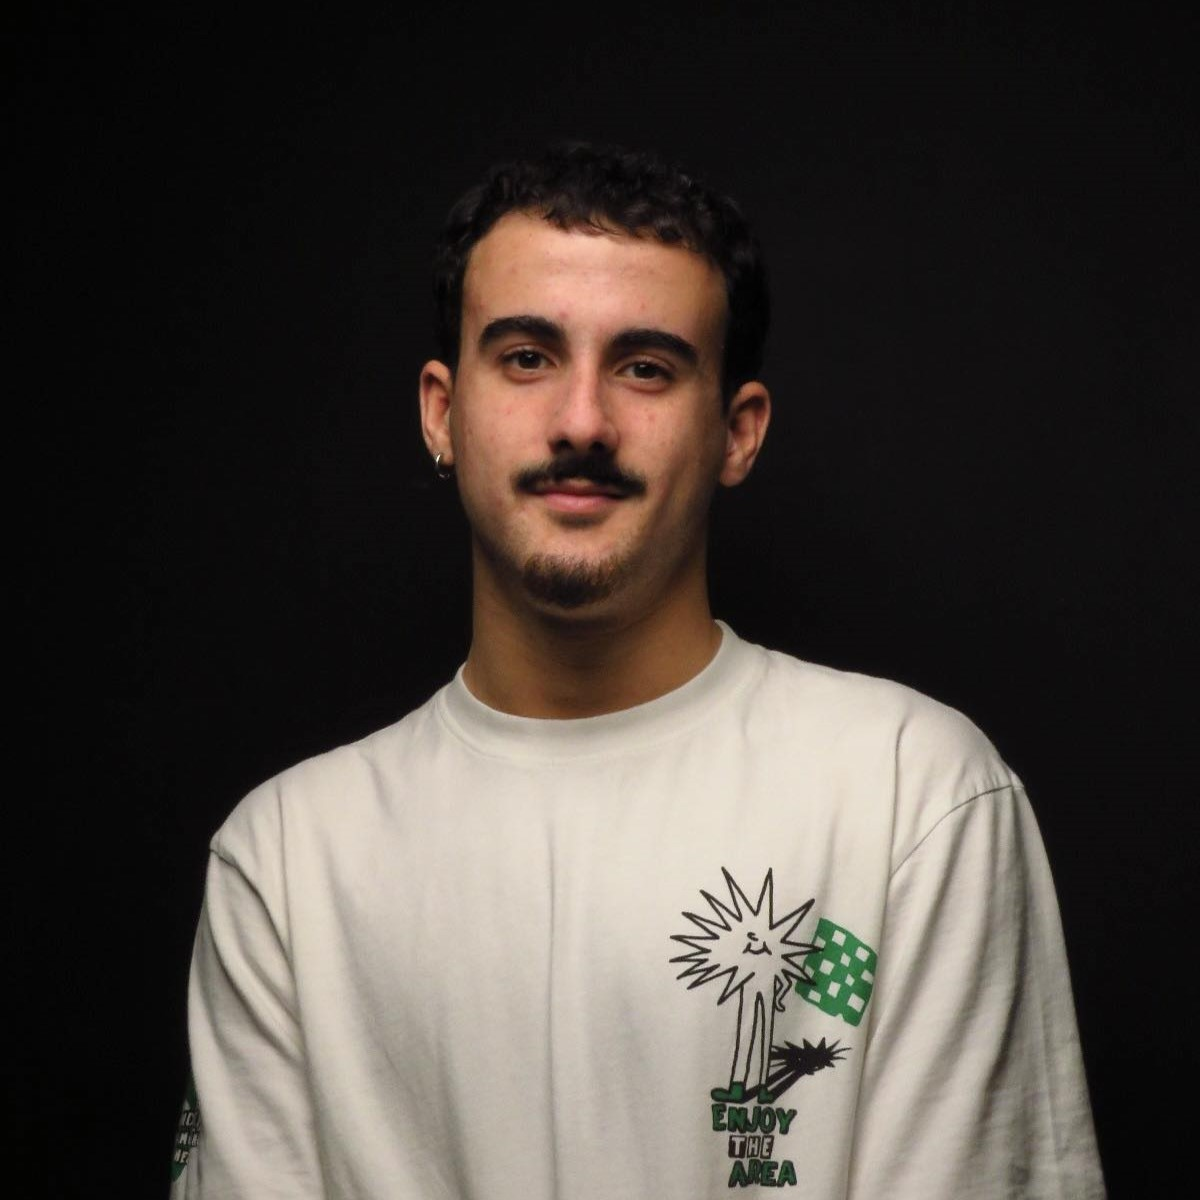
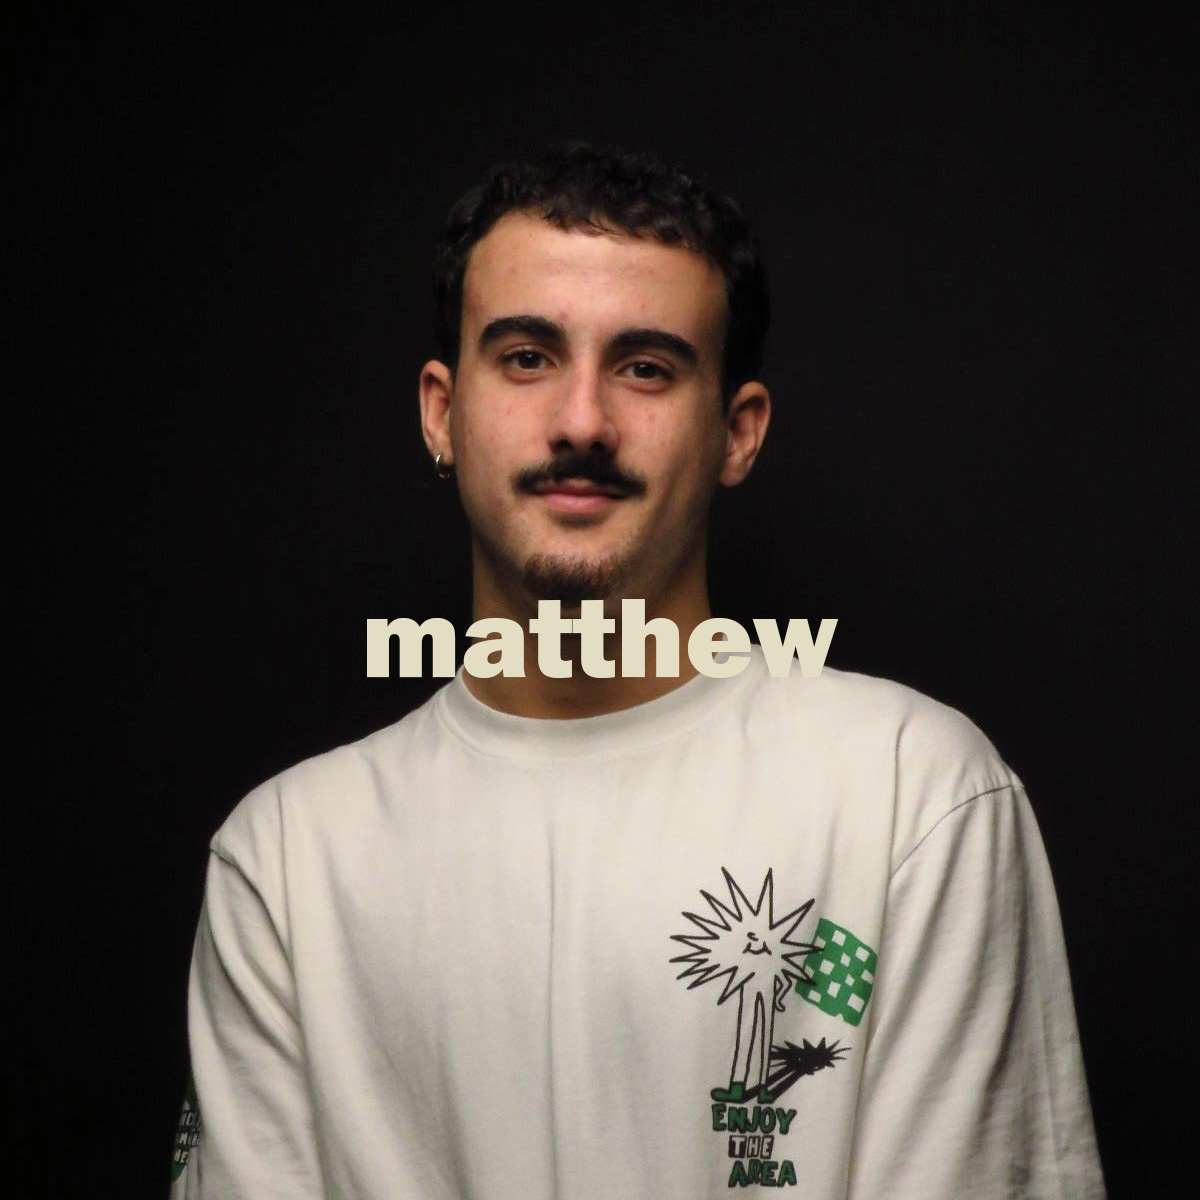
updated pages
added more text in the about page, edited the image of me on photoshop. fixed a found error in the contact page (as the first text box wasn't functioning well as a function).

Changed region(s): [[0.3083, 0.4933, 0.7092, 0.5858]]

diff --git a/index.html b/index.html
@@ -44,7 +44,7 @@
 
         <nav>
             <div class="home-navigator">
-                <a href="#home">Check out the Top 3 Most Visited Articles</a> 
+                <a href="#home">Check out the Top 3 Most Visited Articles</a>
                 <!-- this link takes you the top 3 visited articles (under the navigation bar), with automatic scroll-->
             </div>
 
@@ -71,7 +71,8 @@
     </div> <!-- end of class: 'container homeBg'-->
 
 
-    <div class="container-fluid p-0"> <!-- using bootstrap class to provide a full width container, spanning the entire width of the viewport. -->
+    <div class="container-fluid p-0">
+        <!-- using bootstrap class to provide a full width container, spanning the entire width of the viewport. -->
         <section id="home"> <!-- the top 3 articles -->
             <a href="fawwara.html" class="hpal bg-white">
                 <article class="row">
@@ -83,13 +84,19 @@
                                 (with lush
                                 greenery rocky cliffs, scenic valleys) making it a haven for nature lovers and outdoor
                                 enthusiasts.
+                                <br>
                                 It is also a great spot for
                                 hiking, as it brings solitude and relaxation, away from the hustle and bustle of urban
                                 life. The two
                                 rural chapels are situated near the cliffs of Fawwara, dating back to the medieval
                                 period. The hamlet itself is part of Malta's cultural and religious heritage, offering
                                 visitors a
-                                glimpse into the island's history and legends that lie there.
+                                glimpse into the island's history and many legends that lie there, especially from the
+                                big earthquake that hit Malta years ago.
+                                <br>
+                                <br>
+                                <br>
+                                Click on the article to know more...
                             </p>
                         </div>
                     </div>
@@ -126,6 +133,10 @@
                                     cuisine and international fare. And let's not forget about the bars – perfect for
                                     unwinding with a
                                     cocktail after a long day of exploring Malta.
+                                    <br>
+                                    <br>
+                                    <br>
+                                    Click on the article to know more...
                                 </p>
                             </div>
                         </div>
@@ -155,12 +166,15 @@
                                     the
                                     crumbling
                                     walls, every corner of the lodge tells a tale of bygone days.
-
                                     Despite its dilapidated state, the lodge exudes a haunting beauty that attracts
                                     photographers,
                                     historians, and curious travelers seeking to unravel its history. It's a place where
                                     imagination
                                     runs wild, conjuring visions of grandeur and mystery.
+                                    <br>
+                                    <br>
+                                    <br>
+                                    Click on the article to know more...
                                 </p>
                             </div>
                         </div>

diff --git a/about.html b/about.html
@@ -33,19 +33,30 @@
 
         <div class="col-7">
             <div class="text">
-                <h2>last updated: 13/04/2024</h2>
+                <h2>last updated: 03/05/2024</h2>
 
                 <p>Currently a student in MCAST Mosta, taking Bachelor of Arts in Graphic Design Lvl 5. I am really into
-                    photography, creating art on such digital softwares and making forms of advertisment.
+                    photography, creating art on such digital softwares and making forms of advertisment. Have also been
+                    recently given the opportunity by my cousin to start learning video editing and explore. And it has
+                    been amazing, its come to my acknowledgment that its really fun, planning how to edit and master the
+                    scenes, its just like a puzzle. It's also an amazing experience, as one can easily make a lot of
+                    income from this.
                     <br>
                     <br>
-                    I always have been dedicated to designing my work in a vibrant layout, from writing my school notes
-                    to anything that we as graphic designers create. However, I love making use of monochromatic/black +
-                    white palettes with a sense of aesthetic in my work.
+                    In terms of design, I always have been dedicated to designing my work in a vibrant layout, from
+                    writing my school notes
+                    to anything that we as graphic designers create. However, I love making use of this sense of
+                    monochromatic/black +
+                    white palettes, keeping it modern. Another style I like to go for in some of my work, is a
+                    modern-grunge aesthetic, Y2K style into any design. I also believe that somewhat is considered
+                    against the rules of graphic design, some should be used.
                     <br>
                     <br>
                     Maybe my least favourite medium, would be working on animation, as its not really my go-to to work
-                    with, because I am more into creating printed visuals and design.
+                    with, because I am more into creating printed visuals, coding and digital advertisment. However as a
+                    graphic designer, its a must to know how to animate. The minimum is at least knowing how to animate
+                    your logo or set up an intro-animation to your work. Which I can, but I have zero patience to create
+                    animations on an extreme level!
                     <br>
                     <br>
                     I also have a passion for travelling around the world, exploring new stuff and achieving goals to

diff --git a/assets/styling/contact.css b/assets/styling/contact.css
@@ -97,9 +97,12 @@ label {
     padding-top: 0px;
 }
 
+.form {
+  padding-top: 20px;
+}
 /* bootstrap buttons layout */
 
 .buttons{
-    padding-top: 20px;
+    padding-top: 40px;
 }
 

diff --git a/assets/styling/index.css b/assets/styling/index.css
@@ -211,7 +211,6 @@ h3 {
   padding-top: 20px;
   padding-left: 60px;
   padding-right: 60px;
-  padding-bottom: 60px;
   text-align: justify;
 
 }
